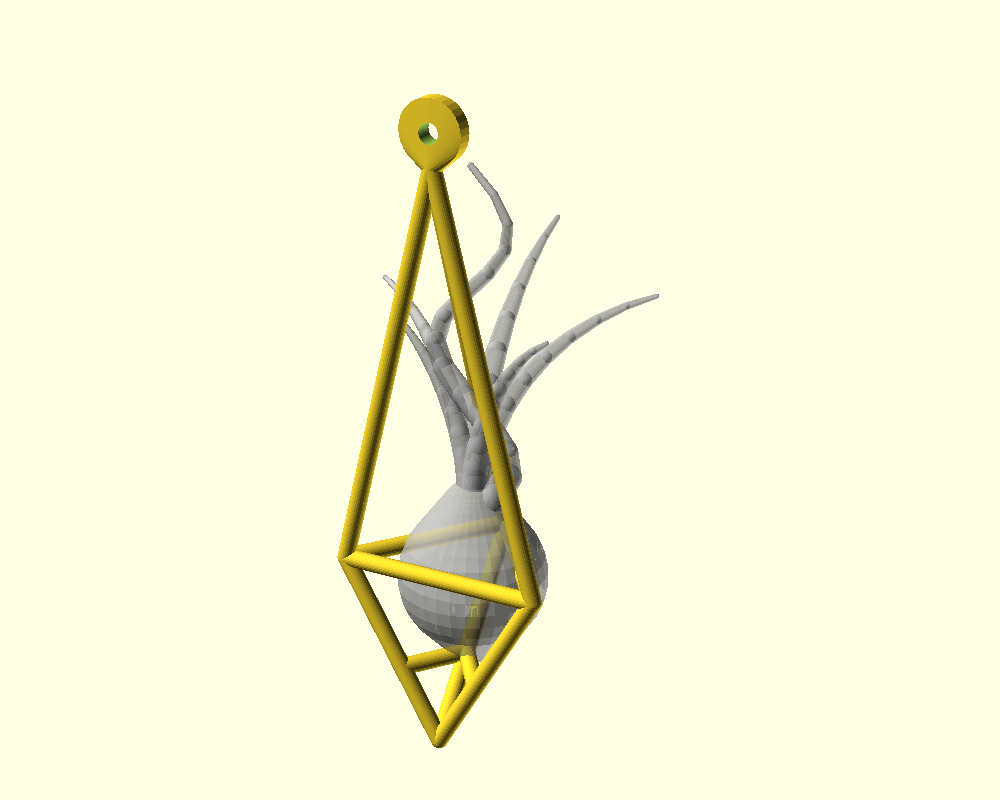
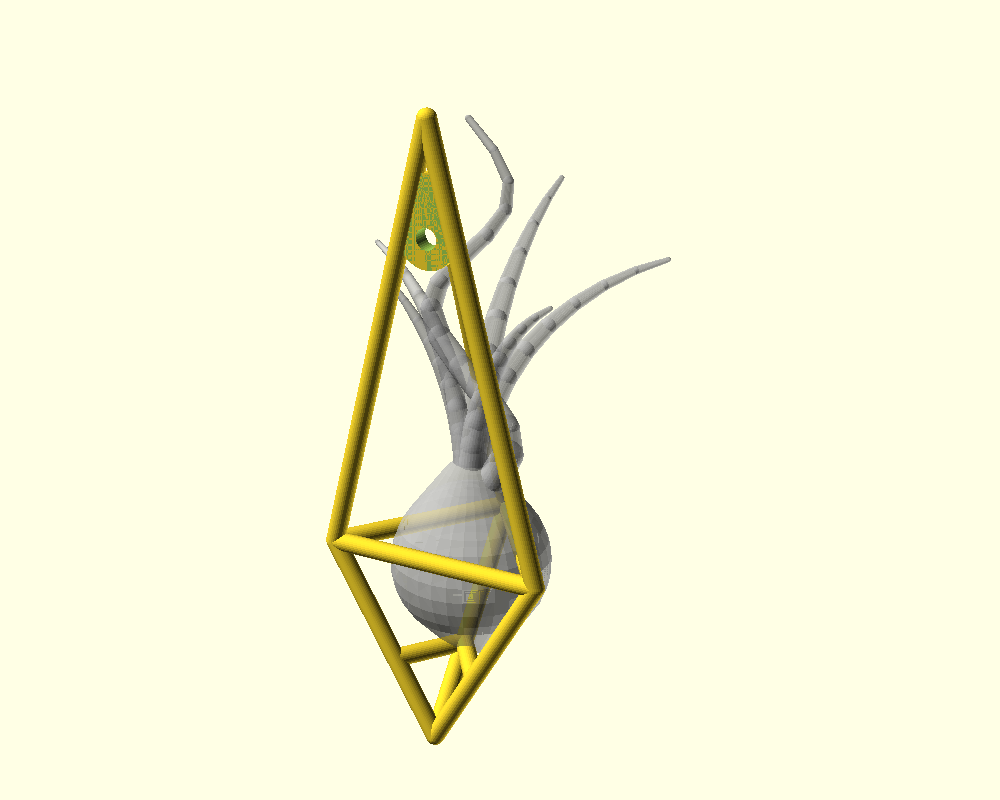
Nest v004 hanging eyelet inside the teardrop instead of above it
Replace the tab lobe above the tip with a small teardrop washer nested
in the upper cone at z122, flush with the wall, bridging the
converging edges. The teardrop tip is now the topmost point. Placed
low enough that the front strut sits ~7mm off the wall, keeping
nail-head clearance. STL validated.

Claude-Session: https://claude.ai/code/session_01KA6Q5hMYxLc6YU5N6bdmxn

Changed region(s): [[0.31, 0.125, 0.682, 0.9375]]

diff --git a/models/air_plant_holder/README.md b/models/air_plant_holder/README.md
@@ -74,8 +74,10 @@ a teardrop wireframe (~52mm wide, ~148mm tall plus hanging tab) whose back
 plane is shaved flat to lie flush against the wall. The front pops 36mm off
 the wall to a vertex at the widest ring, forming a basket that cradles the
 bulb (interior ~48mm wide × ~31mm deep); cradle ribs bridge the lower cone.
-Hangs from a nail through the 5mm hole in the top tab. Print it lying on its
-flat back; light support under the front vertex may help.
+The hanging eyelet is nested inside the upper cone just below the tip — a
+small teardrop washer flush with the wall, with a 5mm nail hole; the front
+strut is ~7mm off the wall there, leaving nail-head clearance. Print it lying
+on its flat back; light support under the front vertex may help.
 
 ## Files
 